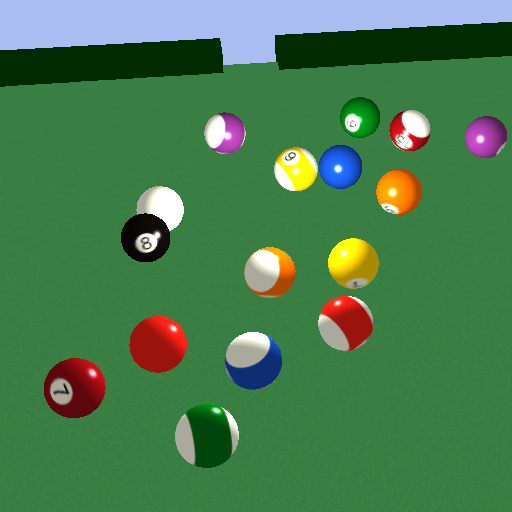
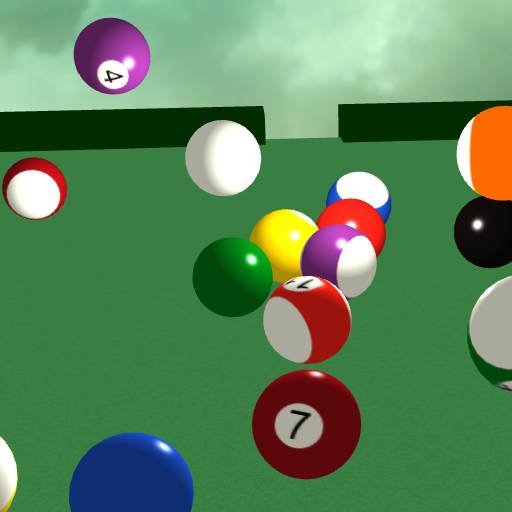
Update billiards image and boxart description
I have a computer that can handle anti-aliasing now :satisfied:
Oh also the billiards has a skybox now, so there's that too.

diff --git a/index.html b/index.html
@@ -40,7 +40,7 @@
 			<a href="http://1j01.github.io/boxart/" itemprop="url">
 				<img itemprop="image" width=256 height=256 src="images/projects/boxart.png">
 			</a>
-			<footer itemprop="description">3d interactive box art generator</footer>
+			<footer itemprop="description">3d drag & drop box art generator</footer>
 		</article>
 		<article itemscope itemtype="http://schema.org/WebPage">
 			<header itemprop="name">
